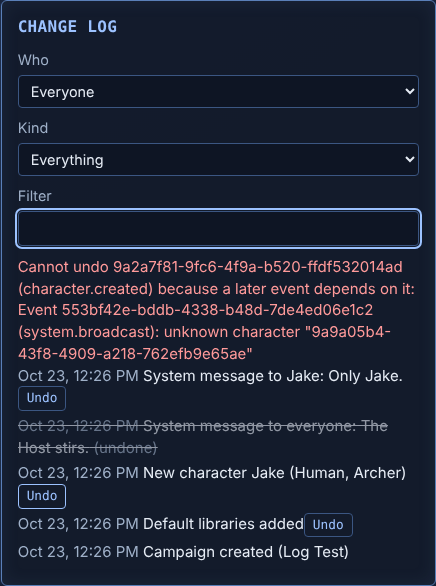
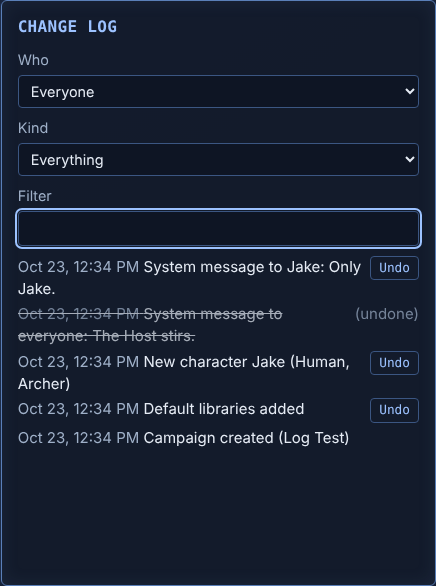
fix(M4.8): review round 1: undo refusals in plain words, load failures shown, debounced refetch, humanized fallback, aligned Undo column
Claude-Session: https://claude.ai/code/session_01Nmfe37w6CTms5d8YRjEfji

Changed region(s): [[0.0298, 0.43, 0.9541, 0.9522]]

diff --git a/apps/web/src/gm/ChangeLog.tsx b/apps/web/src/gm/ChangeLog.tsx
@@ -21,6 +21,22 @@ const KIND_LABELS: Readonly<Record<ChangeLogCategory, string>> = {
   library: 'Libraries',
 };
 
+/** Undo refusals in the GM's words; never ids or event types. */
+export function undoError(error: string): string {
+  if (error.includes('because a later event depends on it')) {
+    return "Can't undo this: a later change depends on it. Undo the later changes first.";
+  }
+  if (error.includes('already undone')) return 'That change is already undone.';
+  if (error.includes('cannot be undone')) return "That change can't be undone.";
+  return friendlyError(error);
+}
+
+/** Changes the engine never undoes (M1.3), so they get no Undo button. */
+const NO_UNDO = new Set(['campaign.created', 'rules.migrated']);
+
+/** Waits this long after the last state change before refetching the log. */
+const REFETCH_MS = 250;
+
 /**
  * M4.8: the GM's change log, newest first, filterable by who, kind and text,
  * with undo (the engine's M1.3 rules decide what can be undone). It refetches
@@ -40,16 +56,28 @@ export function ChangeLog({
   const [who, setWho] = useState<'all' | 'gm' | 'player'>('all');
   const [kind, setKind] = useState<'all' | ChangeLogCategory>('all');
   const [error, setError] = useState<string | null>(null);
+  const [loadError, setLoadError] = useState(false);
   useEffect(() => {
     let live = true;
-    fetch('/api/gm/changelog', { headers: { 'x-gm-key': gmKey } })
-      .then((r) => (r.ok ? (r.json() as Promise<{ rows: ChangeLogRow[] }>) : { rows: [] }))
-      .then((body) => {
-        if (live) setRows(body.rows);
-      })
-      .catch(() => undefined);
+    // Debounced: a burst of player actions refetches once.
+    const timer = setTimeout(() => {
+      fetch('/api/gm/changelog', { headers: { 'x-gm-key': gmKey } })
+        .then((r) => {
+          if (!r.ok) throw new Error(String(r.status));
+          return r.json() as Promise<{ rows: ChangeLogRow[] }>;
+        })
+        .then((body) => {
+          if (!live) return;
+          setRows(body.rows);
+          setLoadError(false);
+        })
+        .catch(() => {
+          if (live) setLoadError(true);
+        });
+    }, REFETCH_MS);
     return () => {
       live = false;
+      clearTimeout(timer);
     };
   }, [gmKey, state]);
   const q = filter.trim().toLowerCase();
@@ -63,7 +91,13 @@ export function ChangeLog({
       <h2 id="change-log">Change log</h2>
       <label>
         Who
-        <select value={who} onChange={(e) => setWho(e.target.value as 'all' | 'gm' | 'player')}>
+        <select
+          value={who}
+          onChange={(e) => {
+            setWho(e.target.value as 'all' | 'gm' | 'player');
+            setError(null);
+          }}
+        >
           <option value="all">Everyone</option>
           <option value="gm">GM and System</option>
           <option value="player">Players</option>
@@ -71,7 +105,13 @@ export function ChangeLog({
       </label>
       <label>
         Kind
-        <select value={kind} onChange={(e) => setKind(e.target.value as 'all' | ChangeLogCategory)}>
+        <select
+          value={kind}
+          onChange={(e) => {
+            setKind(e.target.value as 'all' | ChangeLogCategory);
+            setError(null);
+          }}
+        >
           <option value="all">Everything</option>
           {CHANGE_LOG_CATEGORIES.map((c) => (
             <option key={c} value={c}>
@@ -82,31 +122,44 @@ export function ChangeLog({
       </label>
       <label>
         Filter
-        <input value={filter} onChange={(e) => setFilter(e.target.value)} />
+        <input
+          value={filter}
+          onChange={(e) => {
+            setFilter(e.target.value);
+            setError(null);
+          }}
+        />
       </label>
+      {loadError && (
+        <p className="err" role="alert">
+          Couldn't load the change log. It retries on the next change.
+        </p>
+      )}
       {error && (
         <p className="err" role="alert">
           {error}
         </p>
       )}
-      {shown.length === 0 && <p className="muted">Nothing matches.</p>}
+      {!loadError && shown.length === 0 && <p className="muted">Nothing matches.</p>}
       <ol className="change-log">
         {shown.map((r) => (
           <li key={r.id} className={r.undoneBy ? 'undone' : undefined}>
-            <span className="muted small">
-              {shortTime(r.at)}
-              {r.actor === 'player' ? ' · player' : ''}{' '}
+            <span className="change-text">
+              <span className="muted small">
+                {shortTime(r.at)}
+                {r.actor === 'player' ? ' · player' : ''}{' '}
+              </span>
+              {r.lines.join(' · ')}
             </span>
-            {r.lines.join(' · ')}
-            {r.type === 'campaign.created' ? null : r.undoneBy ? (
-              <span className="muted"> (undone)</span>
+            {NO_UNDO.has(r.type) ? null : r.undoneBy ? (
+              <span className="muted small">(undone)</span>
             ) : (
               <button
                 type="button"
                 className="secondary small"
                 onClick={() =>
                   void client.command({ type: 'event.undo', eventId: r.id }).then((res) => {
-                    setError(res.ok ? null : friendlyError(res.error));
+                    setError(res.ok ? null : undoError(res.error));
                   })
                 }
               >

diff --git a/packages/engine/src/history/changeLog.ts b/packages/engine/src/history/changeLog.ts
@@ -117,6 +117,14 @@ export const CHANGE_LOG_PHRASES: Readonly<Record<string, string>> = {
 const has = (record: object, key: string) => Object.prototype.hasOwnProperty.call(record, key);
 const oneLine = (text: string) => text.replace(/\s+/g, ' ').trim();
 
+/** "quest.statusSet" → "quest status set": never a raw type in a row. */
+export function humanize(type: string): string {
+  return type
+    .replace(/\./g, ' ')
+    .replace(/([a-z])([A-Z])/g, '$1 $2')
+    .toLowerCase();
+}
+
 /**
  * A one-line summary for an event the session log has no words for: who it
  * touched, what happened and, where the payload names one, what. Notes never
@@ -124,7 +132,7 @@ const oneLine = (text: string) => text.replace(/\s+/g, ' ').trim();
  */
 function fallbackLine(state: CampaignState | null, event: DomainEvent): string {
   const p = event.payload as Record<string, unknown>;
-  const phrase = CHANGE_LOG_PHRASES[event.type] ?? event.type;
+  const phrase = CHANGE_LOG_PHRASES[event.type] ?? humanize(event.type);
   const parts: string[] = [];
   if (typeof p.characterId === 'string') {
     parts.push(oneLine(state?.characters[p.characterId]?.name ?? p.characterId));

diff --git a/packages/engine/test/changeLog.test.ts b/packages/engine/test/changeLog.test.ts
@@ -1,5 +1,12 @@
 import { describe, expect, it } from 'vitest';
-import { changeLog, changeLogCategory, execute, type Campaign, type Command } from '../src';
+import {
+  changeLog,
+  changeLogCategory,
+  execute,
+  humanize,
+  type Campaign,
+  type Command,
+} from '../src';
 import { kit, rawRules, run, testContext } from './helpers/events';
 
 // M4.8: the GM's change log rows.
@@ -94,5 +101,12 @@ describe('changeLog (M4.8)', () => {
   });
   it('files unknown event areas under campaign', () => {
     expect(changeLogCategory('mystery.thing')).toBe('campaign');
+  });
+});
+
+describe('humanize (M4.8)', () => {
+  it('turns an event type into words', () => {
+    expect(humanize('quest.statusSet')).toBe('quest status set');
+    expect(humanize('session.started')).toBe('session started');
   });
 });

diff --git a/e2e/M4.8.spec.ts b/e2e/M4.8.spec.ts
@@ -45,7 +45,9 @@ test('the GM undoes a broadcast from the change log', async ({ page }) => {
   await expect(log.getByRole('listitem').filter({ hasText: 'Only Jake.' })).toHaveCount(1);
   const created = log.getByRole('listitem').filter({ hasText: 'Jake' }).last();
   await created.getByRole('button', { name: 'Undo' }).click();
-  await expect(log.getByRole('alert')).toBeVisible();
+  await expect(log.getByRole('alert')).toHaveText(
+    "Can't undo this: a later change depends on it. Undo the later changes first.",
+  );
   await log.getByLabel('Filter').fill('only jake');
   await expect(log.getByRole('listitem')).toHaveCount(1);
   await log.getByLabel('Who').selectOption('player');

diff --git a/apps/web/src/styles.css b/apps/web/src/styles.css
@@ -2039,9 +2039,20 @@ ol.change-log {
   gap: 4px;
 }
 ol.change-log li {
+  display: flex;
+  align-items: baseline;
+  gap: 0.5rem;
   overflow-wrap: anywhere;
 }
+ol.change-log .change-text {
+  flex: 1;
+}
+ol.change-log li > button {
+  flex: none;
+}
 ol.change-log li.undone {
-  opacity: 0.6;
+  opacity: 0.7;
+}
+ol.change-log li.undone .change-text {
   text-decoration: line-through;
 }
